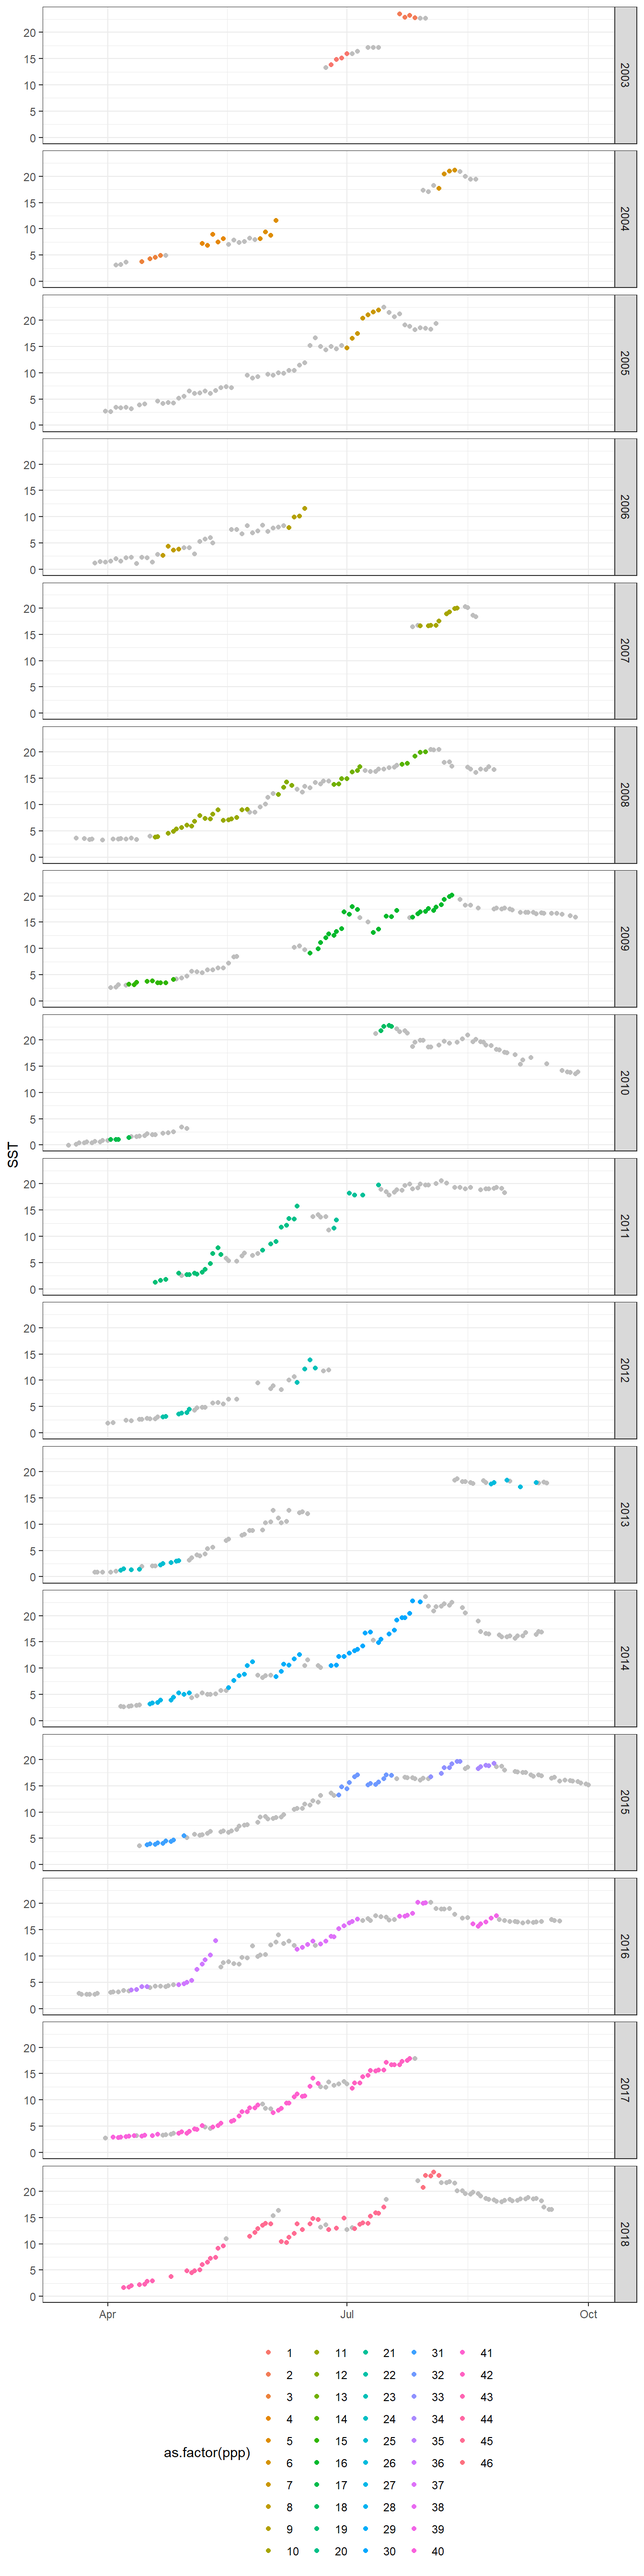
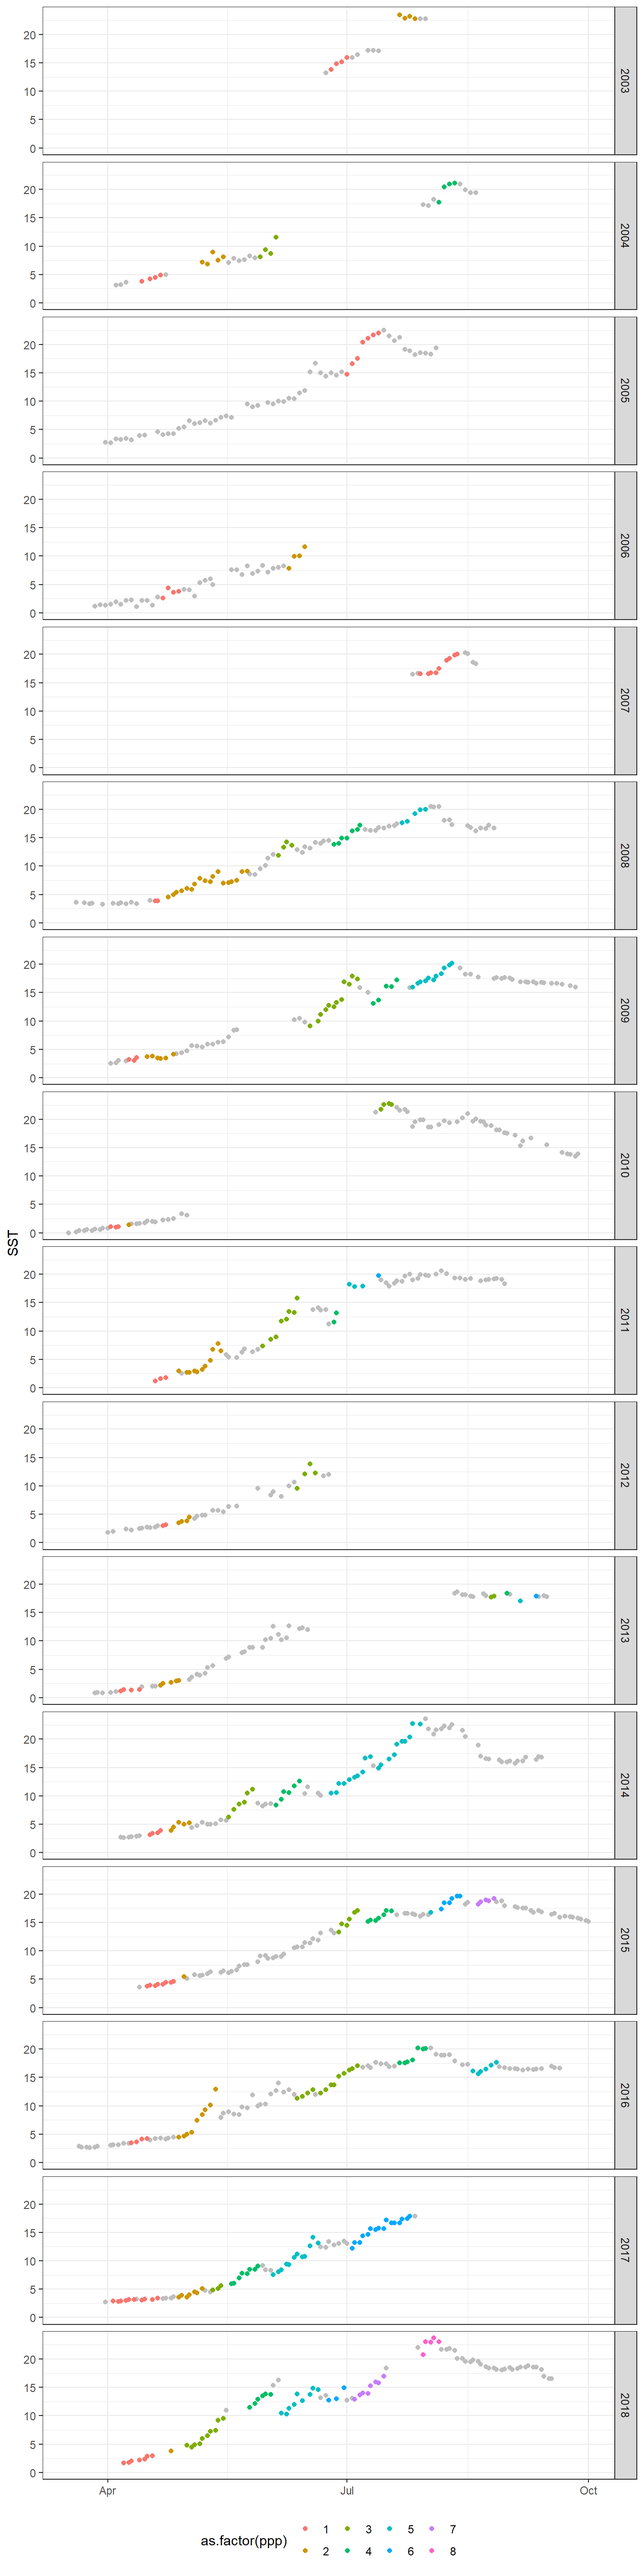
Build site.

diff --git a/docs/CT.html b/docs/CT.html
@@ -426,7 +426,7 @@ div.tocify {
 
 <h1 class="title toc-ignore">CT</h1>
 <h4 class="author">Jens Daniel Müller &amp; Lara Burchardt</h4>
-<h4 class="date">16 April, 2020</h4>
+<h4 class="date">17 April, 2020</h4>
 
 </div>
 
@@ -451,7 +451,7 @@ div.tocify {
 <div class="tab-content">
 <div id="summary" class="tab-pane fade in active">
 <p>
-<strong>Last updated:</strong> 2020-04-16
+<strong>Last updated:</strong> 2020-04-17
 </p>
 <p>
 <strong>Checks:</strong> <span class="glyphicon glyphicon-ok text-success" aria-hidden="true"></span> 7 <span class="glyphicon glyphicon-exclamation-sign text-danger" aria-hidden="true"></span> 0
@@ -542,16 +542,16 @@ This reproducible <a href="http://rmarkdown.rstudio.com">R Markdown</a> analysis
 <div class="panel panel-default">
 <div class="panel-heading">
 <p class="panel-title">
-<a data-toggle="collapse" data-parent="#workflowr-checks" href="#strongRepositoryversionstrongahrefhttpsgithubcomjensdanielmuellerBalticProductivitytree5340b369c09155a696da8b00cad14c3a8d956027targetblank5340b36a"> <span class="glyphicon glyphicon-ok text-success" aria-hidden="true"></span> <strong>Repository version:</strong> <a href="https://github.com/jens-daniel-mueller/Baltic_Productivity/tree/5340b369c09155a696da8b00cad14c3a8d956027" target="_blank">5340b36</a> </a>
+<a data-toggle="collapse" data-parent="#workflowr-checks" href="#strongRepositoryversionstrongahrefhttpsgithubcomjensdanielmuellerBalticProductivitytree7507a935c69308cf5bb70ae7b110cb031b5f8111targetblank7507a93a"> <span class="glyphicon glyphicon-ok text-success" aria-hidden="true"></span> <strong>Repository version:</strong> <a href="https://github.com/jens-daniel-mueller/Baltic_Productivity/tree/7507a935c69308cf5bb70ae7b110cb031b5f8111" target="_blank">7507a93</a> </a>
 </p>
 </div>
[2 lines of base64/hex data omitted]
 <div class="panel-body">
 <p>
 Great! You are using Git for version control. Tracking code development and connecting the code version to the results is critical for reproducibility.
 </p>
 <p>
-The results in this page were generated with repository version <a href="https://github.com/jens-daniel-mueller/Baltic_Productivity/tree/5340b369c09155a696da8b00cad14c3a8d956027" target="_blank">5340b36</a>. See the <em>Past versions</em> tab to see a history of the changes made to the R Markdown and HTML files.
+The results in this page were generated with repository version <a href="https://github.com/jens-daniel-mueller/Baltic_Productivity/tree/7507a935c69308cf5bb70ae7b110cb031b5f8111" target="_blank">7507a93</a>. See the <em>Past versions</em> tab to see a history of the changes made to the R Markdown and HTML files.
 </p>
 <p>
 Note that you need to be careful to ensure that all relevant files for the analysis have been committed to Git prior to generating the results (you can use <code>wflow_publish</code> or <code>wflow_git_commit</code>). workflowr only checks the R Markdown file, but you know if there are other scripts or data files that it depends on. Below is the status of the Git repository when the results were generated:
@@ -604,6 +604,74 @@ Message
 </tr>
 </thead>
 <tbody>
+<tr>
+<td>
+Rmd
+</td>
+<td>
+<a href="https://github.com/jens-daniel-mueller/Baltic_Productivity/blob/7507a935c69308cf5bb70ae7b110cb031b5f8111/analysis/CT.Rmd" target="_blank">7507a93</a>
+</td>
+<td>
+jens-daniel-mueller
+</td>
+<td>
+2020-04-17
+</td>
+<td>
+PPP labeling with 4 day gap
+</td>
+</tr>
+<tr>
+<td>
+Rmd
+</td>
+<td>
+<a href="https://github.com/jens-daniel-mueller/Baltic_Productivity/blob/8ea672dae7848c5be61946dc9ca931fe5347c1be/analysis/CT.Rmd" target="_blank">8ea672d</a>
+</td>
+<td>
+LSBurchardt
+</td>
+<td>
+2020-04-16
+</td>
+<td>
+#3 end criterion corrected, ppps colored per year
+</td>
+</tr>
+<tr>
+<td>
+Rmd
+</td>
+<td>
+<a href="https://github.com/jens-daniel-mueller/Baltic_Productivity/blob/33a1b7452ef05e8467dbde94d6dca301c79bdbe3/analysis/CT.Rmd" target="_blank">33a1b74</a>
+</td>
+<td>
+LSBurchardt
+</td>
+<td>
+2020-04-16
+</td>
+<td>
+#3 commented, prevented from getting rm() warning
+</td>
+</tr>
+<tr>
+<td>
+html
+</td>
+<td>
+<a href="https://rawcdn.githack.com/jens-daniel-mueller/Baltic_Productivity/e62e49c10e6af498b0b9232b984668558fb02b7b/docs/CT.html" target="_blank">e62e49c</a>
+</td>
+<td>
+jens-daniel-mueller
+</td>
+<td>
+2020-04-16
+</td>
+<td>
+Build site.
+</td>
+</tr>
 <tr>
 <td>
 Rmd
@@ -1368,8 +1436,7 @@ library(dygraphs)
 library(xts)
 library(here)
 library(seacarb)
-library(zoo)
-library(RColorBrewer)</code></pre>
+library(zoo)</code></pre>
 <pre class="r"><code># route
 select_route &lt;- c(&quot;E&quot;, &quot;F&quot;, &quot;G&quot;, &quot;W&quot;, &quot;X&quot;) 
 
@@ -1781,6 +1848,8 @@ timespan_start &lt;- 7 #in days
 decrease_end &lt;- 20
 timespan_end &lt;- 7 #in days
 
+ppp_gap &lt;- 4 #in days
+
 # databasis
 
 df &lt;- 
@@ -1790,73 +1859,89 @@ df &lt;-
 
 #ppp identified per year, per deployment, only when CT &lt; CT_equi
 
+
 df_ppp &lt;- df %&gt;% 
   filter(CT &lt; CT_equi)
 
 years &lt;- (unique(df_ppp$year))
 
+# first of three loops, loops through each observatio year
+# we get the number of deployments within this year for further analysis
 for (n in years){
   
   deployment &lt;- df_ppp %&gt;% 
     filter(year == n)
     deployment &lt;- max(deployment$deployment)
-  
+    
+  # second of three loops, loops through each deployment within on year
   for (d in 1:deployment){
    
     df_ppp_temp &lt;- df_ppp %&gt;% 
       filter(year == n  , deployment == d) %&gt;% 
       mutate(ppp = NA)
-
+    # third of three loops, within on deployment of year n, we check ppp criteria for every row
     for (x in 1:nrow(df_ppp_temp)){
   
     ##start criteria
+    # define subdataset looking forward &quot;timespan_start&quot; days
     lag_start &lt;- df_ppp_temp %&gt;% 
     filter(date &gt;= date[x], date &lt;= (date[x]+ duration(timespan_start, &#39;days&#39;)))
     
+    
     #roll_index &lt;- which.max(lag_start$date) 
     roll_index &lt;- which.min(lag_start$CT)  #Minimum CT-value in 7 day forward
-    roll_value &lt;- lag_start$CT[roll_index]
+    roll_value &lt;- lag_start$CT[roll_index] # get exact minimum CT value within subdataset 
     
+    # we only proceed, if there is a minimum CT value
     if (is_empty(roll_value)== FALSE){
     
+    # get index of exact CT value in whole dataset 
+    roll_index_df &lt;- df_ppp_temp %&gt;%
+    mutate(row_no = row_number()) %&gt;%
+    filter(CT == roll_value) %&gt;%
+    select(row_no) %&gt;% 
+    as.numeric()
+    
+    # second if-condition for start criteria; is CT value of current loop date x more than &quot;decrease_start&quot; higher tha minimum CT in 7 day forward
+    
+    if (df_ppp_temp$CT[x]-roll_value &gt;= decrease_start) {
+    
+    start &lt;- TRUE #condition for end-criteria; only TRUE when there was the necessary decrease
+    
+    df_ppp_temp$ppp[x:roll_index_df] = as.numeric(x) #loop date x : minimum CT within 7 days forward get assigned the same ppp
+    
+    } else{df_ppp_temp$ppp[x] = NA
+           start &lt;- FALSE}
+    rm(roll_index_df)
+    } else {start &lt;- FALSE} #if we don&#39;t have a roll_value or the criterion of decrease is not met start is set FALSE, so that end criteria don&#39;t kick in without a start
+    
+    ##end criteria
+    
+    #was there a start? then same procdure as for start criterion but looking backwards
+    if (start == TRUE){
+    
+    lag_end &lt;- df_ppp_temp %&gt;% 
+    filter(date &lt;= date[x], date &gt;= (date[x]- duration(timespan_end, &#39;days&#39;)))
+
+    #roll_index &lt;- which.max(lag_end$date) 
+    roll_index &lt;- which.max(lag_end$CT) #in contrast to start we search for the maximum CT value here when looking backwards
+    roll_value &lt;- lag_end$CT[roll_index]
+    
+    if (is_empty(roll_value) == FALSE){ #at the start of the loop we can&#39;t look backwards
+      
     roll_index_df &lt;- df_ppp_temp %&gt;%
     mutate(row_no = row_number()) %&gt;%
     filter(CT == roll_value) %&gt;%
     select(row_no) %&gt;% 
     as.numeric()
   
-    if (df_ppp_temp$CT[x]-roll_value &gt;= decrease_start) {
-    
-    start &lt;- TRUE #condition for end-criteria
-    
-    df_ppp_temp$ppp[x:roll_index_df] = as.numeric(x)
- 
-    } else{df_ppp_temp$ppp[x] = NA
-           start &lt;- FALSE}
-    
-    } else {start &lt;- FALSE}
-    
-    ##end criteria
-    
-    if (start == TRUE){
-    
-    lag_end &lt;- df_ppp_temp %&gt;% 
-    filter(date &lt;= date[x], date &gt;= (date[x]- duration(timespan_end, &#39;days&#39;)))
-
-    roll_index &lt;- which.max(lag_end$date) 
-    roll_value &lt;- lag_end$CT[roll_index]
-    
-    if (is_empty(roll_value) == FALSE){
-      
-    roll_index_df &lt;- grep(roll_value, df_ppp_temp)
-  
     if (df_ppp_temp$CT[x]-roll_value &gt;= decrease_end){
     
-    df_ppp_temp$ppp[x:roll_index_df] = as.numeric(x)
- 
-    } else{}
+    df_ppp_temp$ppp[x:roll_index_df] = as.numeric(x) #loop date x : minimum CT within 7 days backwards get assigned the same ppp, if criterion was met
+ rm(roll_index_df)
+    } else{} #if criterion is not met, we do nothing as NAs are already assigned in start and this would potentially overwrite an existing ppp entry
     
-    } else {next}
+    } else {next} #if we can&#39;t look backwards, we jump to the next loop iteration
     
     if (exists(&quot;fm_ppp&quot;, inherits = FALSE)){
         fm_ppp &lt;- bind_rows(fm_ppp, df_ppp_temp)
@@ -1866,12 +1951,13 @@ for (n in years){
     
       }#end start == TRUE condition
     
-    rm(start, roll_index_df, roll_index, roll_value, lag_start)
+    rm(start, roll_index, roll_value, lag_start)
     
     } #end  loop through df_ppp_temp
   }#end of loop through deployments
 }#end of loop through years
 
+# remove duplicates and NAs
 fm_ppp_dup &lt;- fm_ppp[!duplicated(fm_ppp),] %&gt;% 
   arrange(date)
 
@@ -1884,9 +1970,11 @@ ggplot()+
   theme(axis.title.x = element_blank(),
         legend.position = &quot;bottom&quot;)</code></pre>
 <p><img src="figure/CT.Rmd/primary_production_periods-1.png" width="672" style="display: block; margin: auto;" /></p>
-<pre class="r"><code># enumeration of ppps, remove duplicates again
+<pre class="r"><code># enumeration of ppps, remove duplicates again 
 fm_ppp_final &lt;- fm_ppp_dup_na %&gt;% 
- mutate(ppp = as.factor(cumsum(c(TRUE,diff(date)&gt;= deployment_gap))))
+  group_by(year) %&gt;%
+  mutate(ppp = as.factor(cumsum(c(TRUE,diff(date)&gt;= ppp_gap)))) %&gt;% 
+  ungroup()
 
 fm_ppp_final &lt;- fm_ppp_final[!duplicated(fm_ppp_final),]
 
@@ -1946,12 +2034,12 @@ attached base packages:
 [1] stats     graphics  grDevices utils     datasets  methods   base     
 
 other attached packages:
- [1] RColorBrewer_1.1-2 seacarb_3.2.13     oce_1.2-0          gsw_1.0-5         
- [5] testthat_2.3.2     here_0.1           xts_0.12-0         zoo_1.8-7         
- [9] dygraphs_1.1.1.6   geosphere_1.5-10   lubridate_1.7.4    vroom_1.2.0       
-[13] ncdf4_1.17         forcats_0.5.0      stringr_1.4.0      dplyr_0.8.5       
-[17] purrr_0.3.3        readr_1.3.1        tidyr_1.0.2        tibble_3.0.0      
-[21] ggplot2_3.3.0      tidyverse_1.3.0    workflowr_1.6.1   
+ [1] seacarb_3.2.13   oce_1.2-0        gsw_1.0-5        testthat_2.3.2  
+ [5] here_0.1         xts_0.12-0       zoo_1.8-7        dygraphs_1.1.1.6
+ [9] geosphere_1.5-10 lubridate_1.7.4  vroom_1.2.0      ncdf4_1.17      
+[13] forcats_0.5.0    stringr_1.4.0    dplyr_0.8.5      purrr_0.3.3     
+[17] readr_1.3.1      tidyr_1.0.2      tibble_3.0.0     ggplot2_3.3.0   
+[21] tidyverse_1.3.0  workflowr_1.6.1 
 
 loaded via a namespace (and not attached):
  [1] Rcpp_1.0.4        whisker_0.4       knitr_1.28        xml2_1.3.0       
